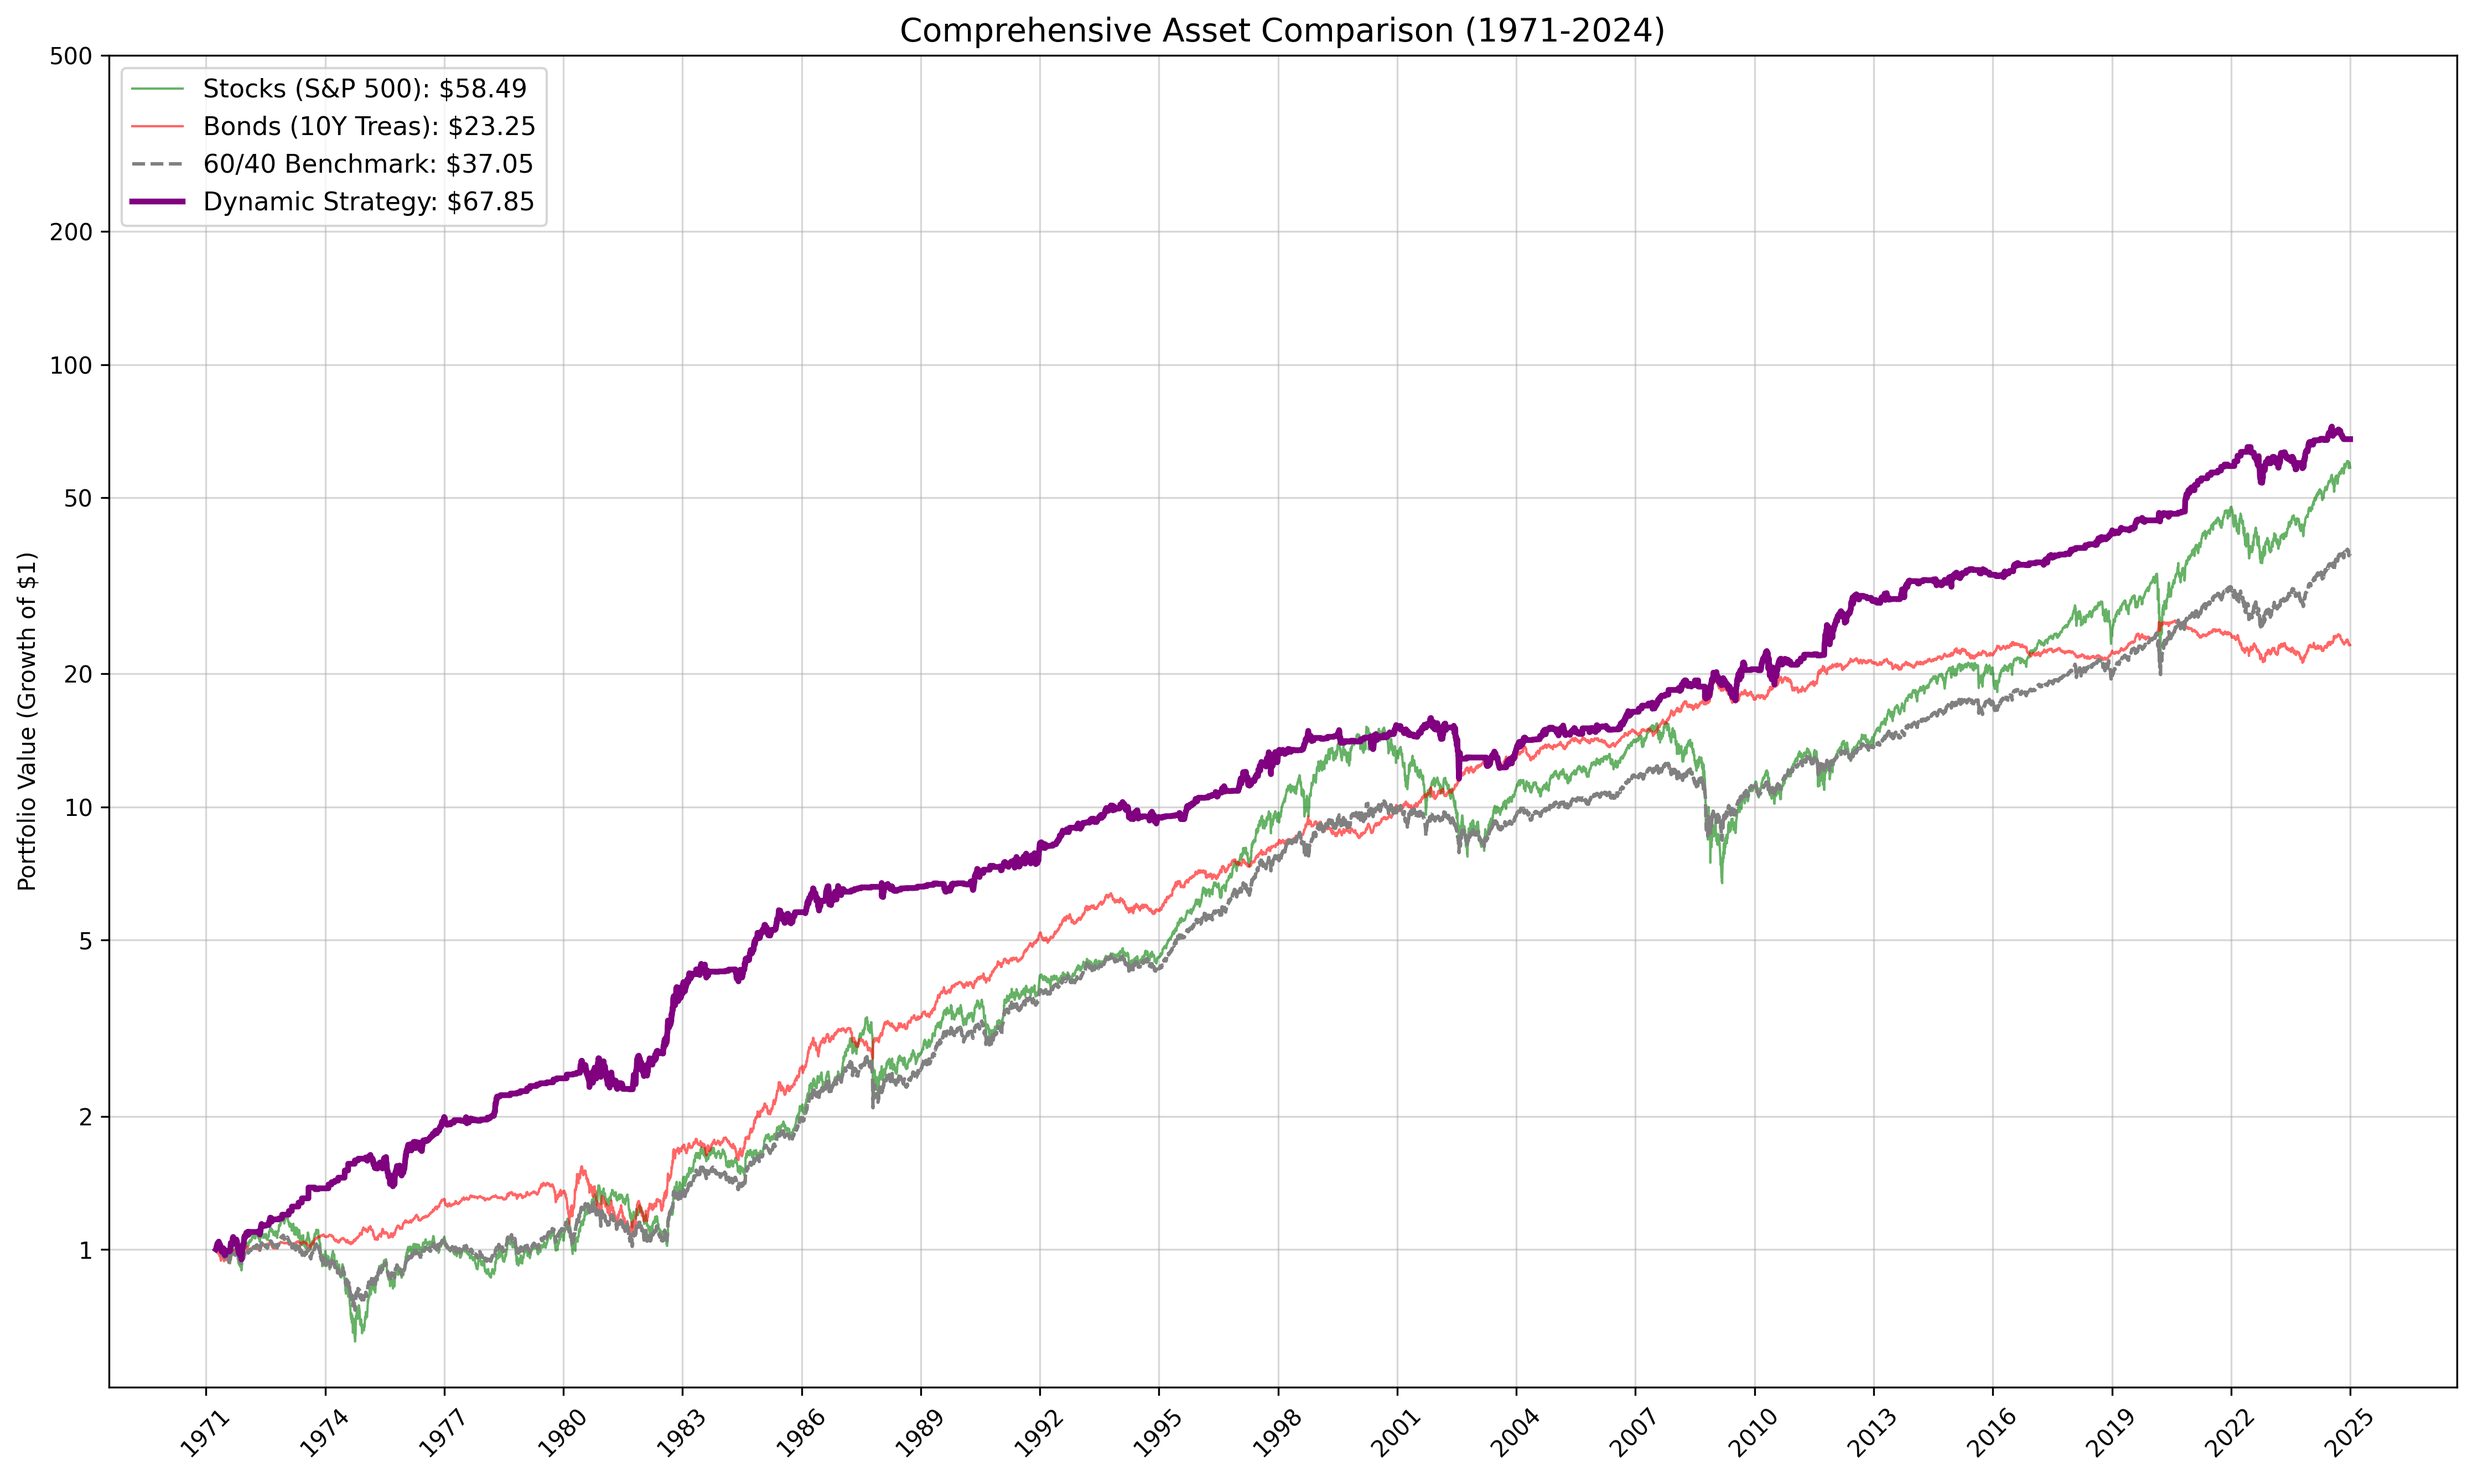
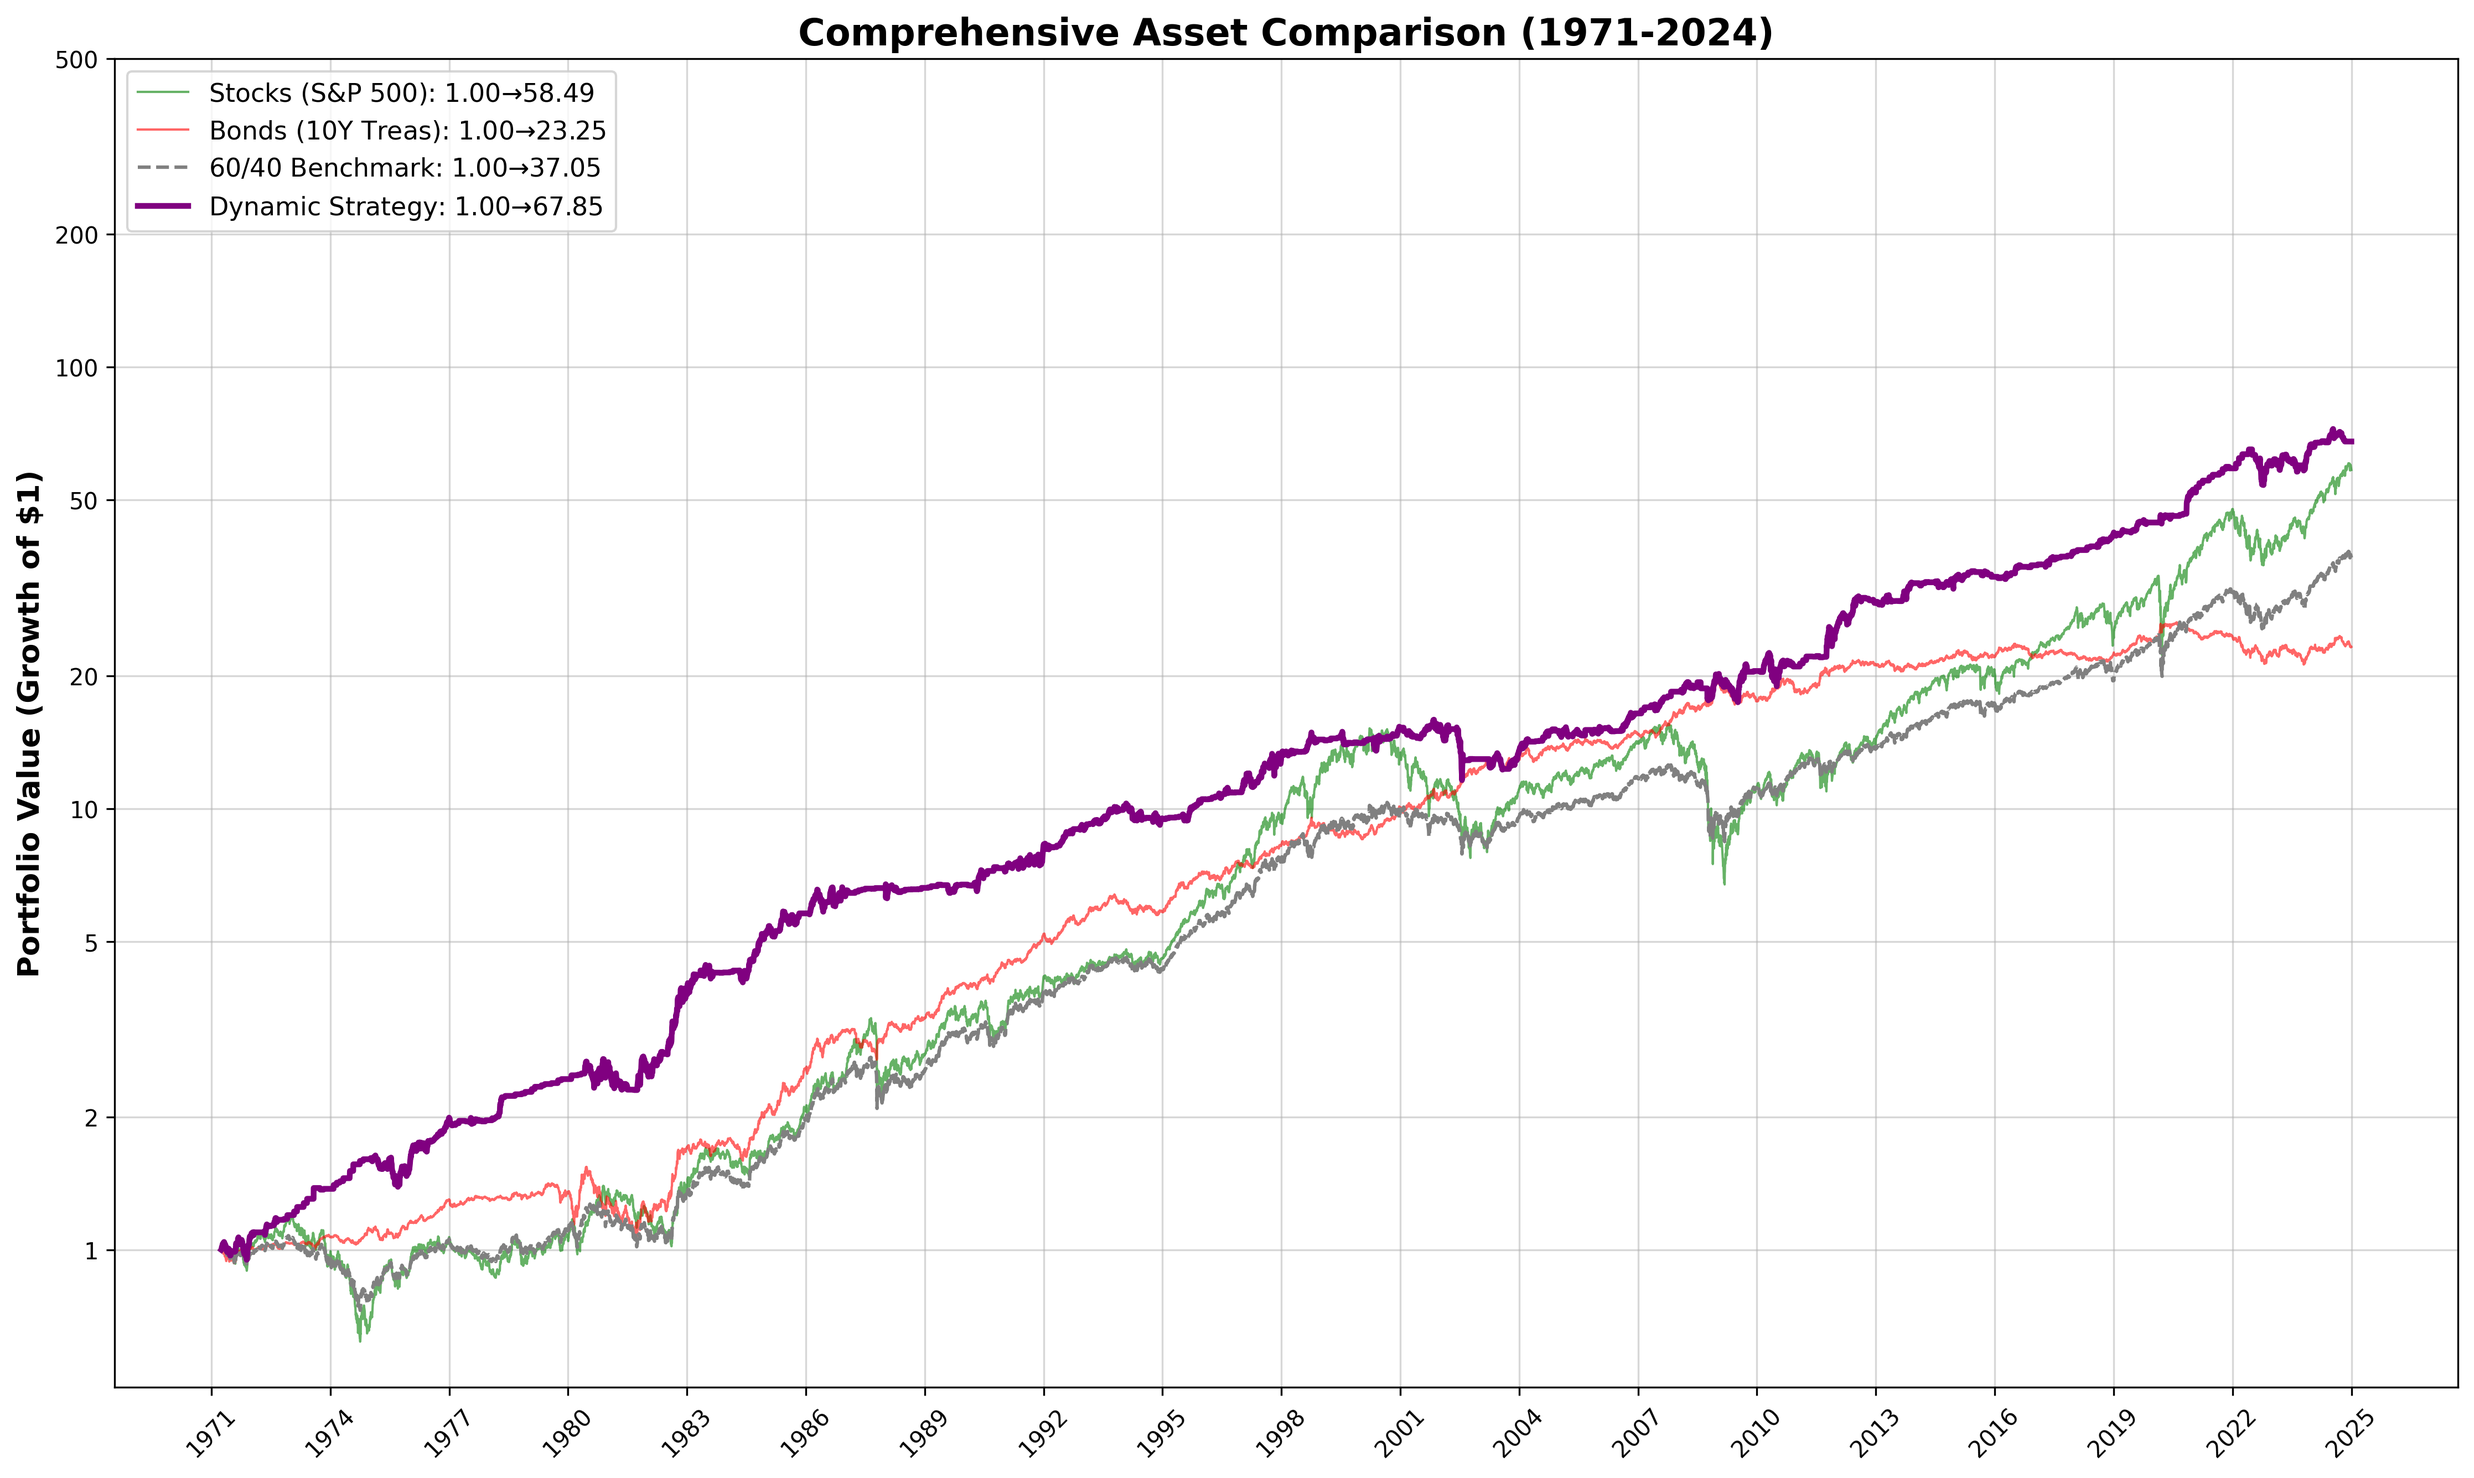
Made title font bolder and changed the legend labelling

diff --git a/06_comparative_visualization.py b/06_comparative_visualization.py
@@ -1,93 +1,3 @@
-'''import pandas as pd
-import matplotlib.pyplot as plt
-import matplotlib.dates as mdates
-from matplotlib.ticker import ScalarFormatter, NullLocator
-import os
-
-# 1. Setup
-base_dir = '/Users/pustak/Desktop/Dynamic Portfolio'
-mod_dir = os.path.join(base_dir, 'modified_data')
-fig_dir = os.path.join(base_dir, 'figures')
-
-os.makedirs(fig_dir, exist_ok=True)
-
-# 2. Load Data
-print("Loading Data...")
-dyn_df = pd.read_csv(os.path.join(mod_dir, 'final_backtest_results.csv'), index_col='date', parse_dates=True)
-comp_df = pd.read_csv(os.path.join(mod_dir, 'benchmark_portfolio_1970_2025.csv'), index_col='date', parse_dates=True)
-
-# Merge into one view (Equity Curves)
-df = dyn_df[['Dynamic_Equity', '60_40_Equity']].join(comp_df[['Stock_Equity', 'Bond_Equity']], how='inner')
-
-# 3. Re-Base all Equity Curves to start at $1
-df['Stock_Equity']   = df['Stock_Equity'] / df['Stock_Equity'].iloc[0]
-df['Bond_Equity']    = df['Bond_Equity'] / df['Bond_Equity'].iloc[0]
-df['60_40_Equity']   = df['60_40_Equity'] / df['60_40_Equity'].iloc[0]
-df['Dynamic_Equity'] = df['Dynamic_Equity'] / df['Dynamic_Equity'].iloc[0]
-
-# 4. Calculate Returns Columns (Derived from the Rebased Equity)
-df['Stock_Returns']   = df['Stock_Equity'].pct_change()
-df['Bond_Returns']    = df['Bond_Equity'].pct_change()
-df['60_40_Returns']   = df['60_40_Equity'].pct_change()
-df['Dynamic_Returns'] = df['Dynamic_Equity'].pct_change()
-
-# 5. Inspection (Print DataFrame with Equity AND Returns)
-print("\n--- Final Dataframe (Head) ---")
-print(df.head())
-
-final_vals = df.iloc[-1]
-print("\n--- Final Portfolio Values (Growth of $1) ---")
-print(final_vals[['Stock_Equity', 'Bond_Equity', '60_40_Equity', 'Dynamic_Equity']])
-
-# 6. Visualization
-fig, ax = plt.subplots(figsize=(15, 9))
-
-# Plot Lines with Final Values in Legend
-ax.plot(df.index, df['Stock_Equity'], label=f'Stocks (S&P 500): ${final_vals["Stock_Equity"]:.2f}', 
-        color='green', linewidth=1, alpha=0.6)
-
-ax.plot(df.index, df['Bond_Equity'], label=f'Bonds (10Y Treas): ${final_vals["Bond_Equity"]:.2f}', 
-        color='red', linewidth=1, alpha=0.6)
-
-ax.plot(df.index, df['60_40_Equity'], label=f'60/40 Benchmark: ${final_vals["60_40_Equity"]:.2f}', 
-        color='gray', linewidth=1.5, linestyle='--')
-
-ax.plot(df.index, df['Dynamic_Equity'], label=f'Dynamic Strategy: ${final_vals["Dynamic_Equity"]:.2f}', 
-        color='purple', linewidth=2.5)
-
-# Formatting
-ax.set_yscale('log')
-y_ticks = [1, 2, 5, 10, 20, 50, 100, 200, 500]
-ax.set_yticks(y_ticks)
-ax.get_yaxis().set_major_formatter(ScalarFormatter())
-ax.yaxis.set_minor_locator(NullLocator())
-
-# Title & Labels
-start_year = df.index[0].year
-end_year = df.index[-1].year
-ax.set_title(f'Comprehensive Asset Comparison ({start_year}-{end_year})', fontsize=14)
-ax.set_ylabel('Portfolio Value (Growth of $1)')
-
-# X-Axis: Every 3 Years
-ax.xaxis.set_major_locator(mdates.YearLocator(3))
-ax.xaxis.set_major_formatter(mdates.DateFormatter('%Y'))
-plt.xticks(rotation=45)
-
-ax.grid(True, which="major", ls="-", alpha=0.5)
-ax.legend(loc='upper left', fontsize=11, frameon=True)
-
-plt.tight_layout()
-
-# Save & Show
-"""
-save_path = os.path.join(fig_dir, 'comprehensive_comparison_rebased.png')
-plt.savefig(save_path, dpi=300, bbox_inches='tight')
-print(f"Comparison Figure saved to: {save_path}")
-"""
-
-plt.show()
-'''
-
 import pandas as pd
 import matplotlib.pyplot as plt
 import matplotlib.dates as mdates
@@ -103,8 +13,10 @@ os.makedirs(fig_dir, exist_ok=True)
 
 # 2. Load Data
 print("Loading Data...")
-dyn_df = pd.read_csv(os.path.join(mod_dir, 'final_backtest_results.csv'), index_col='date', parse_dates=True)
-comp_df = pd.read_csv(os.path.join(mod_dir, 'benchmark_portfolio_1970_2025.csv'), index_col='date', parse_dates=True)
+dyn_df = pd.read_csv(os.path.join(mod_dir, 'final_backtest_results.csv'), 
+                     index_col='date', parse_dates=True)
+comp_df = pd.read_csv(os.path.join(mod_dir, 'benchmark_portfolio_1970_2025.csv'), 
+                      index_col='date', parse_dates=True)
 
 # Merge into one view (Equity Curves)
 df = dyn_df[['Dynamic_Equity', '60_40_Equity']].join(comp_df[['Stock_Equity', 'Bond_Equity']], how='inner')
@@ -121,11 +33,10 @@ df['Bond_Returns']    = df['Bond_Equity'].pct_change()
 df['60_40_Returns']   = df['60_40_Equity'].pct_change()
 df['Dynamic_Returns'] = df['Dynamic_Equity'].pct_change()
 
-# Also need the Regime column for future analysis (Metrics module needs it)
-# We pull it from the original dyn_df and join it back
+# Add Regime column for future analysis
 df = df.join(dyn_df[['Regime']], how='left')
 
-# 5. Inspection (Print DataFrame with Equity AND Returns)
+# 5. Inspection
 print("\n--- Final Dataframe (Head) ---")
 print(df.head())
 
@@ -133,26 +44,29 @@ final_vals = df.iloc[-1]
 print("\n--- Final Portfolio Values (Growth of $1) ---")
 print(final_vals[['Stock_Equity', 'Bond_Equity', '60_40_Equity', 'Dynamic_Equity']])
 
-# === NEW: SAVE THE MASTER DATASET ===
+# Save the master dataset
 master_save_path = os.path.join(mod_dir, 'consolidated_portfolio_rebased.csv')
 df.to_csv(master_save_path)
 print(f"\n--> Master Rebased Dataset saved to: {master_save_path}")
-# ====================================
 
 # 6. Visualization
 fig, ax = plt.subplots(figsize=(15, 9))
 
-# Plot Lines with Final Values in Legend
-ax.plot(df.index, df['Stock_Equity'], label=f'Stocks (S&P 500): ${final_vals["Stock_Equity"]:.2f}', 
+# Plot with beginning → ending in legend
+ax.plot(df.index, df['Stock_Equity'], 
+        label=f'Stocks (S&P 500): $1.00 → ${final_vals["Stock_Equity"]:.2f}', 
         color='green', linewidth=1, alpha=0.6)
 
-ax.plot(df.index, df['Bond_Equity'], label=f'Bonds (10Y Treas): ${final_vals["Bond_Equity"]:.2f}', 
+ax.plot(df.index, df['Bond_Equity'], 
+        label=f'Bonds (10Y Treas): $1.00 → ${final_vals["Bond_Equity"]:.2f}', 
         color='red', linewidth=1, alpha=0.6)
 
-ax.plot(df.index, df['60_40_Equity'], label=f'60/40 Benchmark: ${final_vals["60_40_Equity"]:.2f}', 
+ax.plot(df.index, df['60_40_Equity'], 
+        label=f'60/40 Benchmark: $1.00 → ${final_vals["60_40_Equity"]:.2f}', 
         color='gray', linewidth=1.5, linestyle='--')
 
-ax.plot(df.index, df['Dynamic_Equity'], label=f'Dynamic Strategy: ${final_vals["Dynamic_Equity"]:.2f}', 
+ax.plot(df.index, df['Dynamic_Equity'], 
+        label=f'Dynamic Strategy: $1.00 → ${final_vals["Dynamic_Equity"]:.2f}', 
         color='purple', linewidth=2.5)
 
 # Formatting
@@ -165,10 +79,12 @@ ax.yaxis.set_minor_locator(NullLocator())
 # Title & Labels
 start_year = df.index[0].year
 end_year = df.index[-1].year
-ax.set_title(f'Comprehensive Asset Comparison ({start_year}-{end_year})', fontsize=14)
-ax.set_ylabel('Portfolio Value (Growth of $1)')
+ax.set_title(f'Comprehensive Asset Comparison ({start_year}-{end_year})', 
+             fontsize=16, fontweight='bold')
+ax.set_ylabel('Portfolio Value (Growth of $1)', 
+              fontsize=13, fontweight='bold')
 
-# X-Axis: Every 3 Years
+# X-Axis formatting
 ax.xaxis.set_major_locator(mdates.YearLocator(3))
 ax.xaxis.set_major_formatter(mdates.DateFormatter('%Y'))
 plt.xticks(rotation=45)
